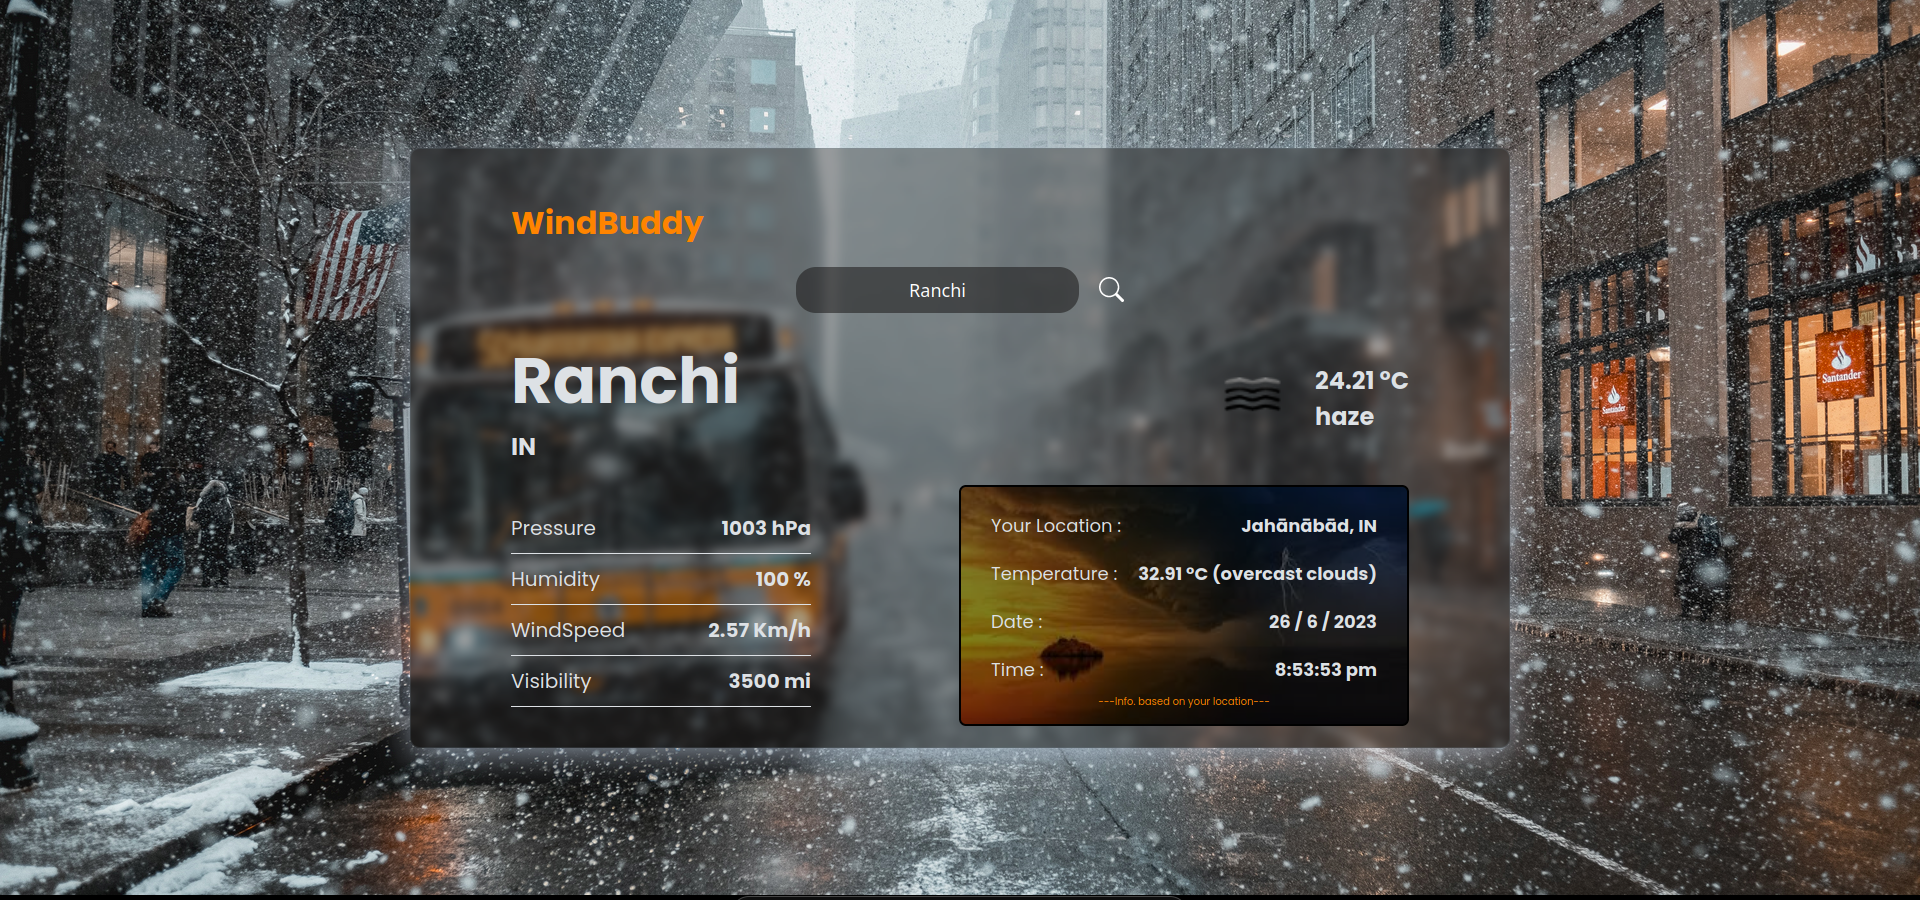
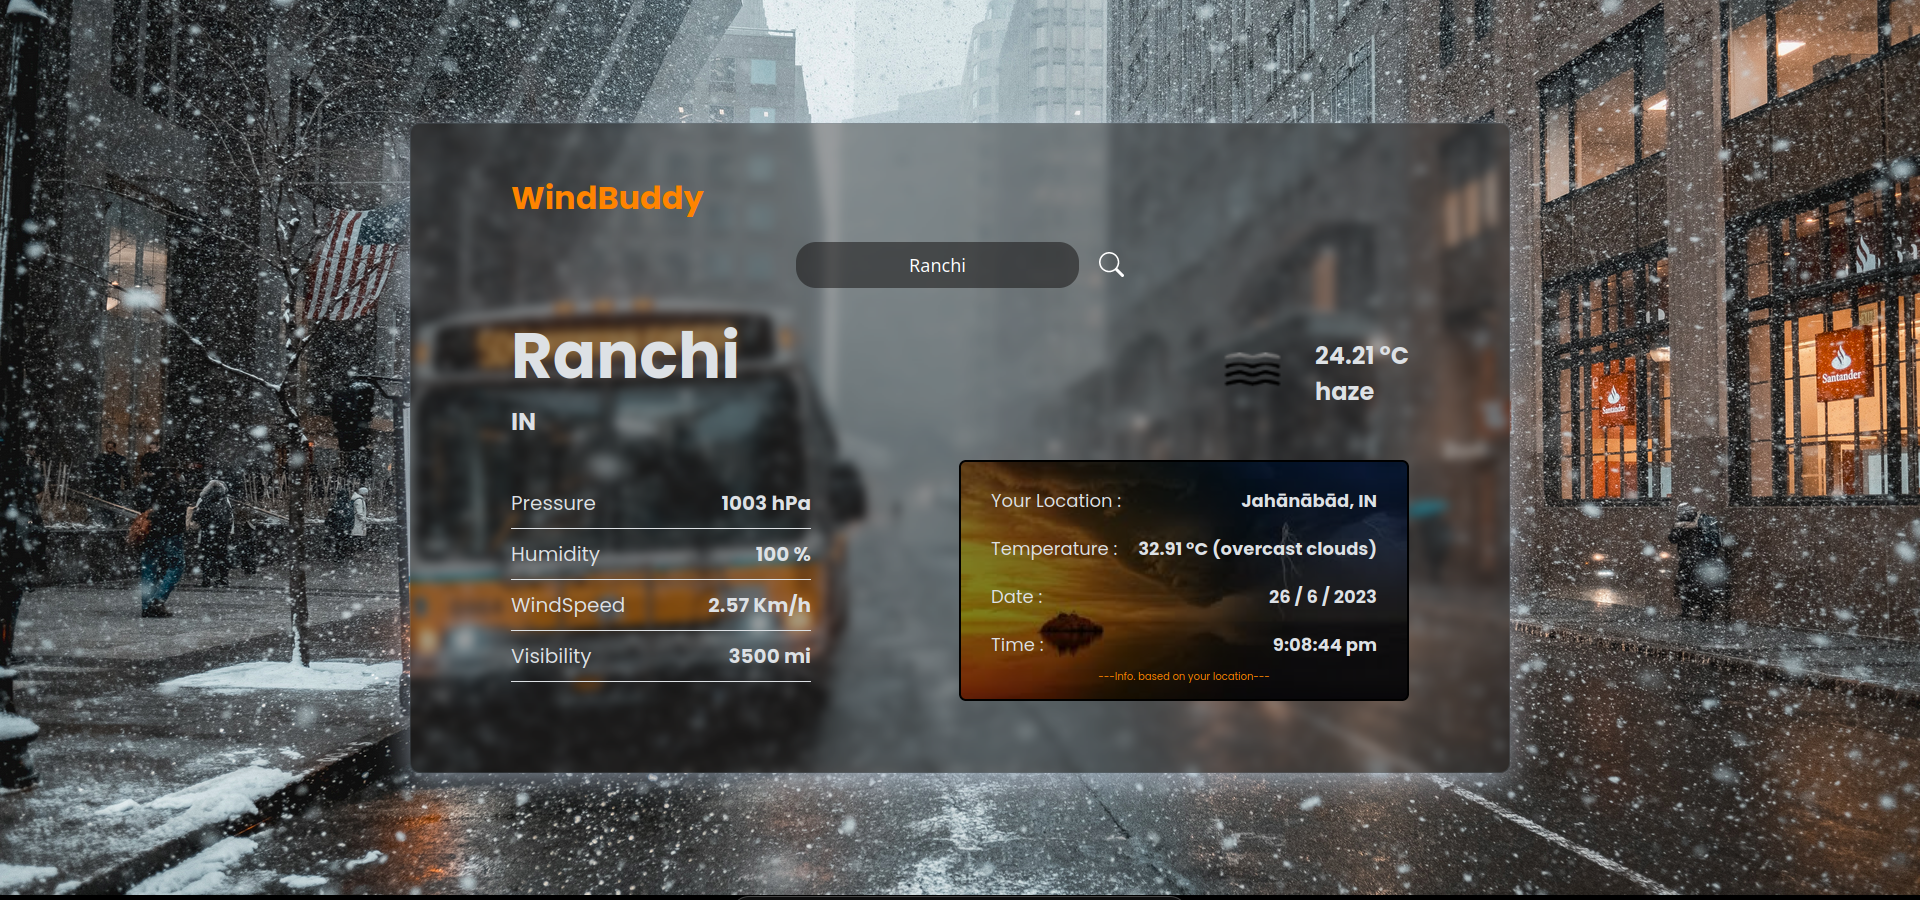
replaced screenshot

diff --git a/src/WheatherContainer.css b/src/WheatherContainer.css
@@ -16,7 +16,7 @@
   backdrop-filter: blur(5px);
   border-radius: 10px;
   border: 1px solid rgba(117, 136, 154, 0.18);
-  height: 600px;
+  height: 650px;
   width: 1100px;
   padding: 50px 100px;
   color: #dde1e5;
